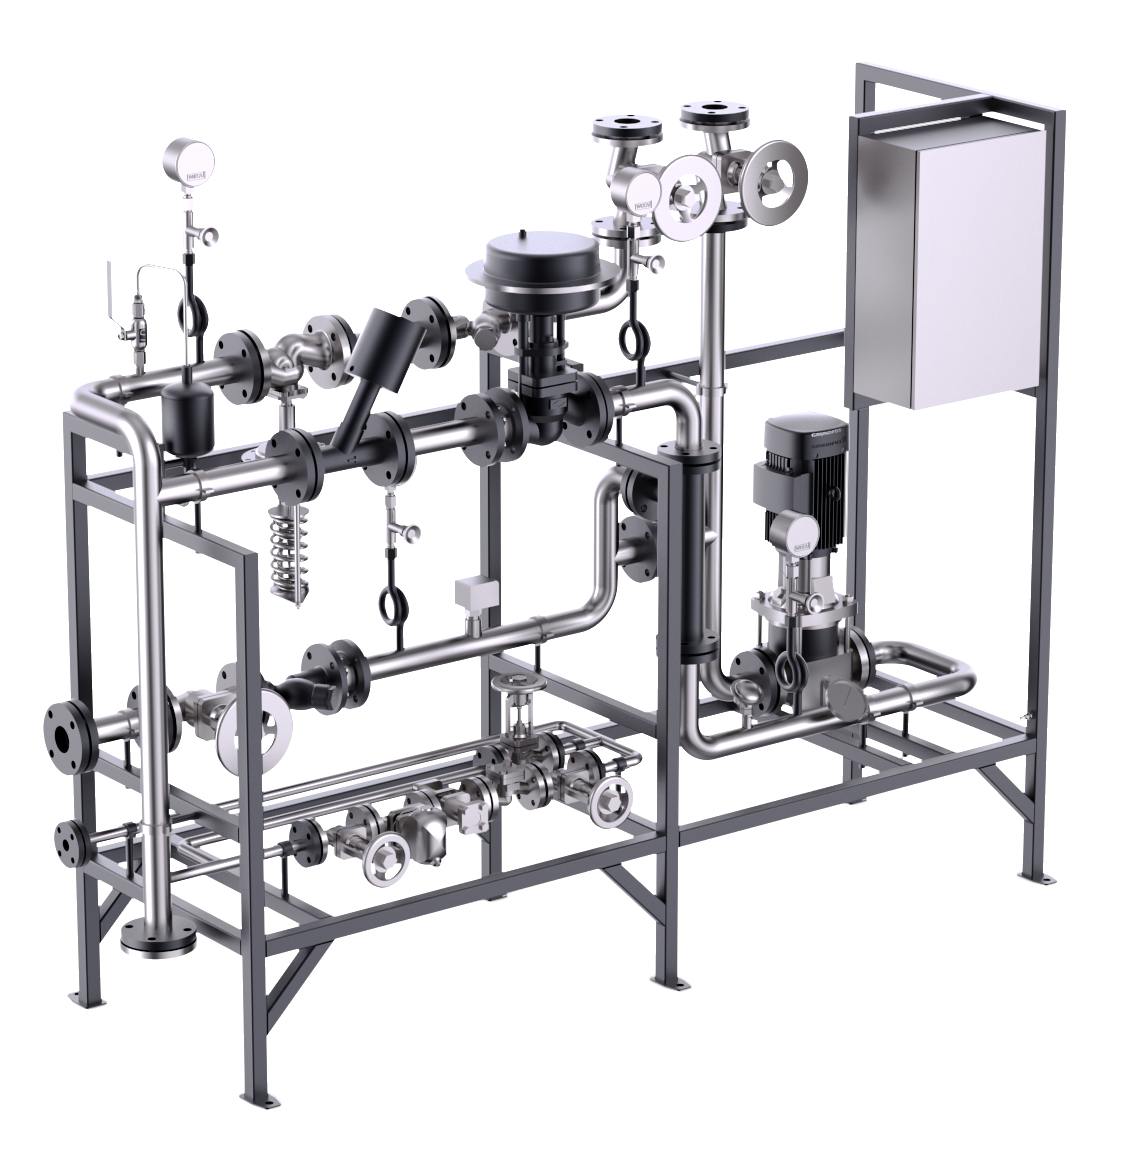
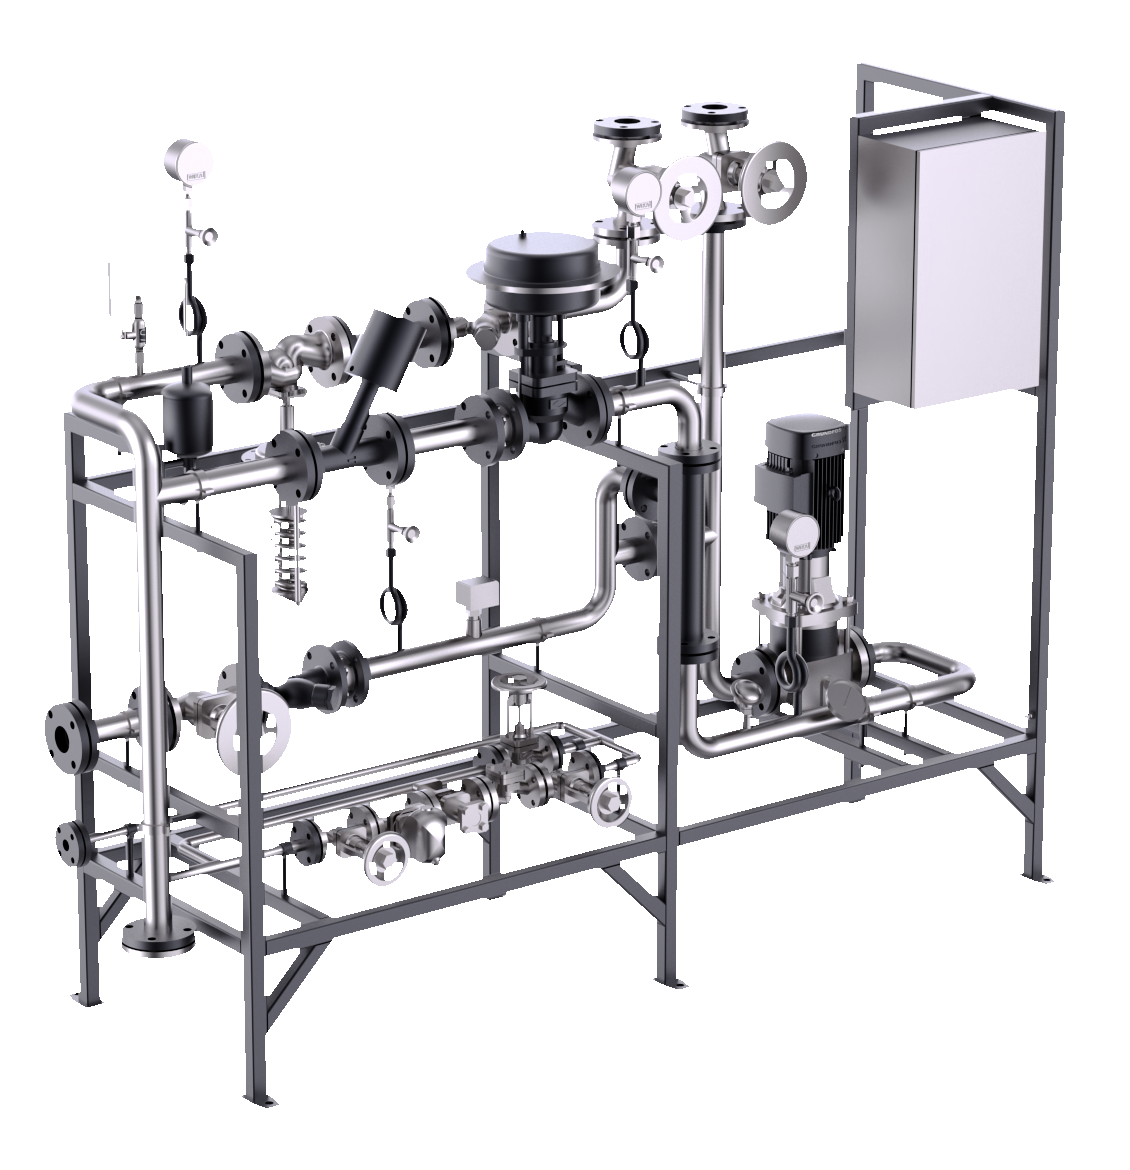
fix(products): kill baked-in floor reflection (threshold 200) + restore colored backlight
Two issues from prior pass:
1. Threshold 48 only killed thin halo edge — left visible 'lit floor' under
   product (semi-transparent reflection α 48-200, ~25% of bottom band on bitp).
   Cabinet reference has 0% pixels in α 48-200 range — true binary alpha.
2. Toned-down CSS radial removed the colored brand-association glow user
   explicitly wanted to keep (red for fire, blue for water, orange for ИТП).

Fix:
- Re-process 12 product PNGs with threshold 200 + 1px erosion + binary
  alpha snap (α≥200 → 255, else 0). Now matches cabinet's clean profile.
- Restore HeroBgCarousel main bg gradient alpha 0.18 (was 0.06).
- Restore ProductsShowcase alpha 0.18 + opacity 60 (was 0.05 + 25).
- Pedestal-glow stays removed in Hero — that one was the actual orange
  'puddle' on heat slide, not the bg gradient.

Verified bitp/hvs-nu/vpu visually on black bg: floor reflection gone,
product silhouette intact.

diff --git a/src/components/home/ProductsShowcase.tsx b/src/components/home/ProductsShowcase.tsx
@@ -165,15 +165,14 @@ function ProductCard({
         className="pointer-events-none absolute inset-0 ring-1 ring-transparent transition-[box-shadow,ring-color] duration-300 [@media(hover:hover)]:group-hover:ring-[color:var(--card-accent)]"
       />
 
-      {/* Accent radial backlight за продуктом. Default state — почти невидимо
-          (alpha 0.05, opacity 25); полный glow только на hover. Прежняя версия
-          (alpha 0.10, opacity 60) на heat-orange ИТП давала видимую лужу.
-          Cabinet-on-black — визуальный референс. */}
+      {/* Accent radial backlight за продуктом — цветная подсветка от продукта
+          (red для пожарных, blue для воды, orange для ИТП). Центр на 32% сверху
+          (продукт в верхней половине карточки), не на 65% где висел копи-блок. */}
       <div
         aria-hidden="true"
-        className="absolute inset-0 transition-opacity duration-500 [@media(hover:hover)]:group-hover:opacity-100 md:opacity-25"
+        className="absolute inset-0 transition-opacity duration-500 [@media(hover:hover)]:group-hover:opacity-100 md:opacity-60"
         style={{
-          background: `radial-gradient(circle at 50% 32%, ${hexToRgba(accentHex, 0.05)} 0%, rgba(10,10,10,0) 55%)`,
+          background: `radial-gradient(circle at 50% 32%, ${hexToRgba(accentHex, 0.18)} 0%, rgba(10,10,10,0) 55%)`,
         }}
       />
 

diff --git a/src/components/hero/HeroBgCarousel.tsx b/src/components/hero/HeroBgCarousel.tsx
@@ -71,12 +71,8 @@ export function HeroBgCarousel({
   // doesn't interpolate gradients, and animating rgba channels via JS would
   // burn frames for something the GPU already handles cheaply.
   const accentRgba = (alpha: number) => hexToRgba(product.accent, alpha);
-  // Subtle accent backlight behind product image. Was alpha 0.18 — too strong
-  // on warm accents (heat #E8873B) which produced visible orange field over
-  // the entire right column. 0.06 keeps a hint of color-association without
-  // reading as a glow. Cabinet-tile-on-pure-black is the visual reference.
   const gradient = `radial-gradient(circle at 72% 50%, ${accentRgba(
-    0.06
+    0.18
   )} 0%, rgba(10,10,10,0) 55%)`;
 
   return (
